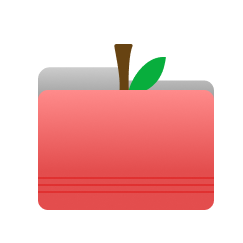
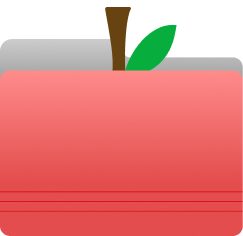
( ◕ ◞ ◕ ) auto commit

diff --git a/index.html b/index.html
@@ -73,8 +73,8 @@
     .my-work-title {
       font-size: 25px;
       text-align: left;
-      width: 515px;
-      margin: 55px 0 0 auto;
+      width: 530px;
+      margin: 55px 0 20px auto;
     }
     
     .folder-grid {
@@ -88,10 +88,17 @@
     .folder-item {
       margin: 0 0 0 0;
       font-size: 15px;
+      text-align: center;
     }
     
+    .folder-item img {
+      display: block;
+      margin: 0 auto;
+    }
     .folder-item p {
-      margin: 0 0 0 0;
+      font-size: 17px;
+      margin: 15px 0 0 0;
+      text-align: center;
     }
     
     .logo-bar-wrapper {
@@ -106,7 +113,7 @@
 
     .grey-divider {
       background-color: #D9D9D9;
-      height: 45px;
+      height: 55px;
       width: 100%;
     }
     
@@ -177,19 +184,19 @@
           <div class="folder-grid">
             <div class="folder-item">
               <a href="#graphic">
-              <img src="AppleFolder.png" width="170" alt="Graphic Folder">
+              <img src="AppleFolder.png" width="130" alt="Graphic Folder">
               <p>Graphics</p>
               </a>
             </div>
             <div class="folder-item">
               <a href="#photography">
-              <img src="AppleFolder.png" width="170" alt="Photography Folder">
+              <img src="AppleFolder.png" width="130" alt="Photography Folder">
               <p>Photography</p>
               </a>
             </div>
             <div class="folder-item">
               <a href="#Videos">
-              <img src="AppleFolder.png" width="170" alt="Video Folder">
+              <img src="AppleFolder.png" width="130" alt="Video Folder">
               <p>Video</p>
               </a>
             </div>
